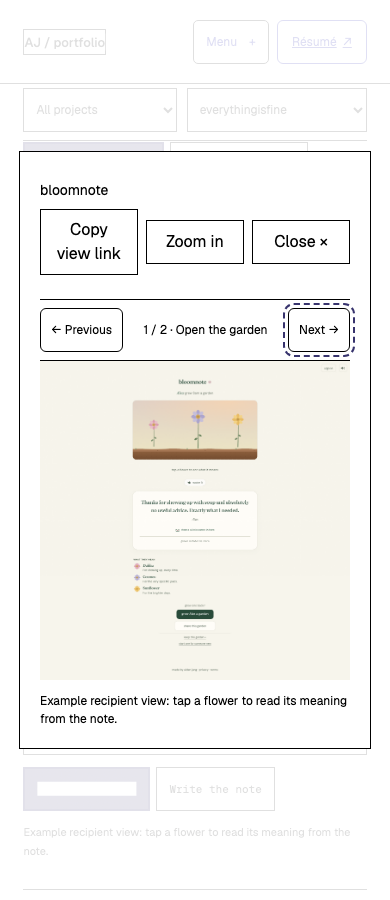
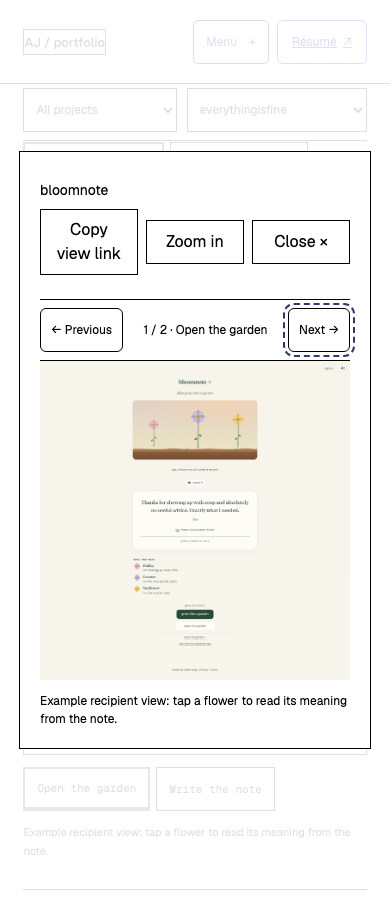
fix: keep high contrast selections readable

Changed region(s): [[0.0615, 0.84, 0.4, 0.9022], [0.0615, 0.1556, 0.4308, 0.1867]]

diff --git a/src/index.css b/src/index.css
@@ -796,8 +796,7 @@ textarea::selection {
   }
   :is([aria-pressed='true'], [aria-selected='true'], [aria-current='page'], [aria-current='true']) {
     border: 2px solid Highlight !important;
-    background: Highlight !important;
-    color: HighlightText !important;
+    border-bottom-width: 4px !important;
   }
   :focus-visible {
     outline: 2px dashed Highlight !important;

diff --git a/docs/ui-review/details2-oct15/README.md b/docs/ui-review/details2-oct15/README.md
@@ -20,3 +20,6 @@ screen-reader output remain device checks.
 Current section markers also keep their selected system color. The focused
 [desktop marker check](current-section-1440-active.png) uses the real page with
 WebGL unavailable, so it exercises the fallback without a competing 3D renderer.
+
+High-contrast selections use a heavier bottom rule while labels retain native
+system text colors. This avoids text backplates obscuring a filled selection.
